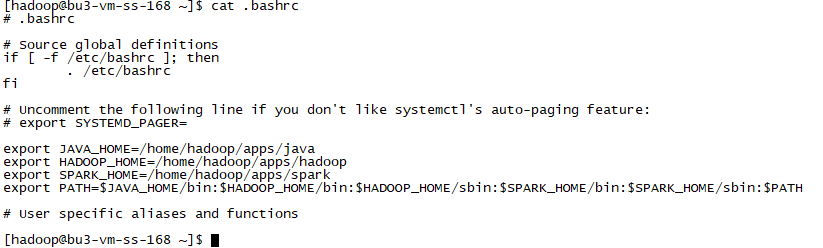
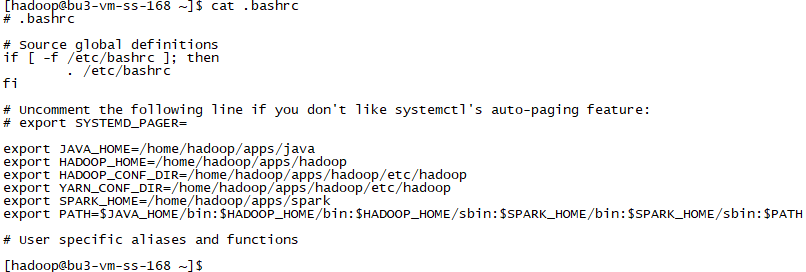
Spark on Yarn 环境搭建

diff --git a/Spark基础入门/Docs/Spark 环境搭建.md b/Spark基础入门/Docs/Spark 环境搭建.md
@@ -390,4 +390,132 @@ Spark On Yarn需要啥
 
 我们在宿主机本地安装 Python3（使用Anaconda）、Hadoop，并配置Hadoop的配置文件，并且需要在Spark的配置文件中配置HADOOP_CONF_DIR和YARN_CONF_DIR，其余的配置可以不要。
 
+宿主机作为客户机，需要将环境变量设置为与容器中的环境变量一致。
+
 具体步骤参照[实验3 Spark on Yarn模式搭建](../Labs/实验3 Spark on Yarn模式搭建.md)。
+
+### 环境验证
+
+#### 测试 HDFS
+
+我们在Hadoop的配置文件中，没有指定HDFS的Web端口，Hadoop 3默认使用的是9870，并且我们已经映射到了宿主机。打开浏览器看看。
+
+![image-20220414171511682](images/image-20220414171511682.png)
+
+#### 测试 Yarn
+
+我们可以通过端口 8088 打开Yarn的Web UI。
+
+![image-20220414172325153](images/image-20220414172325153.png)
+
+#### 测试 spark-shell
+
+我们在宿主机上执行 spark-shell ，此时，我们需要指定 --master 选项，以让 spark-shell 连接到集群环境。
+
+```
+cd /home/hadoop/apps/spark
+
+bin/spark-shell --master yarn --deploy-mode client
+```
+
+![image-20220414172941535](images/image-20220414172941535.png)
+
+在Yarn的界面，我们可以看到提交的程序。
+
+![image-20220414173420333](images/image-20220414173420333.png)
+
+我们运行一段代码
+
+```
+scala> sc.parallelize(List(1,2,3,4,5)).map(x => x * 2).collect()
+```
+
+![image-20220414092745210](images/image-20220414092745210-16499496547491.png)
+
+#### 测试 spark-submit
+
+我们在宿主机上执行 spark-submit ，此时，我们需要指定 --master 选项，以让 spark-submit 连接到集群环境。
+
+##### Client 模式
+
+在执行时指定 `--deploy-mode client`
+
+```
+bin/spark-submit --master yarn --deploy-mode client --class org.apache.spark.examples.SparkPi examples/jars/spark-examples_2.12-3.2.1.jar 10
+```
+
+我们可以在 Yarn 的 Web UI 界面看到我们的应用。
+
+![image-20220414180101486](images/image-20220414180101486.png)
+
+##### Cluster 模式
+
+在执行时指定 `--deploy-mode cluster`
+
+```
+bin/spark-submit --master yarn --deploy-mode cluster --class org.apache.spark.examples.SparkPi examples/jars/spark-examples_2.12-3.2.1.jar 10
+```
+
+通过Yarn Web UI还是可以看到我们的应用的。
+
+![image-20220414181801398](images/image-20220414181801398.png)
+
+#### 测试 pyspark
+
+我们在宿主机上执行 pyspark ，此时，我们需要指定 --master 选项，以让 pyspark 连接到集群环境。
+
+```
+bin/pyspark --master yarn --deploy-mode client
+```
+
+![image-20220414182831496](images/image-20220414182831496.png)
+
+我们可以在 Yarn Web UI 界面看到我们的应用。
+
+![image-20220414182932794](images/image-20220414182932794.png)
+
+我们执行一段代码。
+
+```
+>>> sc.parallelize([1,2,3,4,5]).map(lambda x: x + 1).collect()
+```
+
+![image-20220414231328585](images/image-20220414231328585.png)
+
+### 部署模式DeployMode
+
+Spark on Yarn是有两种运行模式的：
+
+* 一种是Cluster模式
+* 一种是Client模式。
+
+这两种模式的区别就是Driver运行的位置：
+
+* Cluster模式：Driver运行在Yarn容器内部，和ApplicationMaster在同一个容器内
+* Client模式：Driver运行在客户端进程中，比如Driver运行在spark-submit程序的进程中
+
+从前面的验证过程，我们可以看到，在Spark on Yarn模式下：
+
+* spark-submit程序既可以使用Client模式，也可以使用Cluster模式
+* 但是：spark-shell和pyspark，因为是交互式运行的，所以只支持Client模式，不支持Cluster模式
+
+两种模式的区别：
+
+|                | Cluster模式                  | Client模式                               |
+| -------------- | ---------------------------- | ---------------------------------------- |
+| Driver运行位置 | Yarn容器内                   | 客户端进程内                             |
+| 通讯效率       | 高                           | 低于Cluster模式                          |
+| 日志查看       | 日志输出在容器内, 查看不方便 | 日志输出在客户端的标准输出流中，方便查看 |
+| 生产可用       | 推荐                         | 不推荐                                   |
+| 稳定性         | 稳定                         | 基于客户端进程，受到客户端进程影响       |
+
+Client模式和Cluster模式最最本质的区别是：Driver程序运行在哪里。 
+
+* Client模式：学习测试时使用，生产不推荐(要用也可以，性能略低，稳定性略低) 
+  * Driver运行在Client上，和集群的通信成本高
+  * Driver输出结果会在客户端显示
+* Cluster模式：生产环境中使用该模式
+  * Driver程序在Yarn集群中，和集群的通信成本低
+  * Driver输出结果不能在客户端显示
+  * 该模式下Driver运行ApplicattionMaster这个节点上，由Yarn管理，如果出现问题，Yarn会重启 ApplicattionMaster(Driver)
+

diff --git a/Spark基础入门/Labs/实验3 Spark on Yarn模式搭建.md b/Spark基础入门/Labs/实验3 Spark on Yarn模式搭建.md
@@ -59,6 +59,8 @@ ln -s hadoop-3.3.2 hadoop
 ```
 export JAVA_HOME=/home/hadoop/apps/java
 export HADOOP_HOME=/home/hadoop/apps/hadoop
+export HADOOP_CONF_DIR=/home/hadoop/apps/hadoop/etc/hadoop
+export YARN_CONF_DIR=/home/hadoop/apps/hadoop/etc/hadoop
 export SPARK_HOME=/home/hadoop/apps/spark
 export PATH=$JAVA_HOME/bin:$HADOOP_HOME/bin:$HADOOP_HOME/sbin:$SPARK_HOME/bin:$SPARK_HOME/sbin:$PATH
 ```
@@ -330,6 +332,28 @@ pip install pyspark pyhive pymysql jieba -i https://pypi.tuna.tsinghua.edu.cn/si
 ```
 
 ![image-20220414160525934](images/image-20220414160525934.png)
+
+### 步骤4 配置环境变量
+
+在 `.bashrc` 文件中配置环境变量 `PYSPARK_PYTHON`，指向可执行的Python环境。
+
+> 因为在 pyspark 命令中，存在代码
+>
+> if [[ -z "$PYSPARK_PYTHON" ]]; then
+>   PYSPARK_PYTHON=python3
+> fi
+>
+> 如果不配置这个变量PYSPARK_PYTHON，就会默认使用python3作为执行命令，恰好如果系统中没有安装Python3，则会出现实验2中最后一个报错的情况。
+
+```
+export JAVA_HOME=/home/hadoop/apps/java
+export HADOOP_HOME=/home/hadoop/apps/hadoop
+export HADOOP_CONF_DIR=/home/hadoop/apps/hadoop/etc/hadoop
+export YARN_CONF_DIR=/home/hadoop/apps/hadoop/etc/hadoop 
+export SPARK_HOME=/home/hadoop/apps/spark
+export PYSPARK_PYTHON=/home/hadoop/apps/anaconda3/envs/pyspark/bin/python3
+export PATH=$JAVA_HOME/bin:$HADOOP_HOME/bin:$HADOOP_HOME/sbin:$SPARK_HOME/bin:$SPARK_HOME/sbin:$PATH
+```
 
 ## 任务3 Docker 镜像制作
 
@@ -694,7 +718,7 @@ scala> sc.parallelize(List(1,2,3,4,5)).map(x => x * 2).collect()
 >
 > 所以，我们只能尽量让宿主机或node1作为Driver，并且只能查看宿主机或node1的日志。
 
-### 步骤3 测试 spark-submit
+### 步骤4 测试 spark-submit
 
 我们在宿主机上执行 spark-submit ，此时，我们需要指定 --master 选项，以让 spark-submit 连接到集群环境。
 
@@ -750,7 +774,7 @@ bin/spark-submit --master yarn --deploy-mode cluster --class org.apache.spark.ex
 
 ![image-20220414182436926](images/image-20220414182436926.png)
 
-### 步骤4 测试 pyspark
+### 步骤5 测试 pyspark
 
 我们在宿主机上执行 pyspark ，此时，我们需要指定 --master 选项，以让 pyspark 连接到集群环境。
 
@@ -769,4 +793,8 @@ bin/pyspark --master yarn --deploy-mode client
 ```
 >>> sc.parallelize([1,2,3,4,5]).map(lambda x: x + 1).collect()
 ```
+
+![image-20220414231328585](images/image-20220414231328585.png)
+
+可以看到，代码成功运行了。
 
